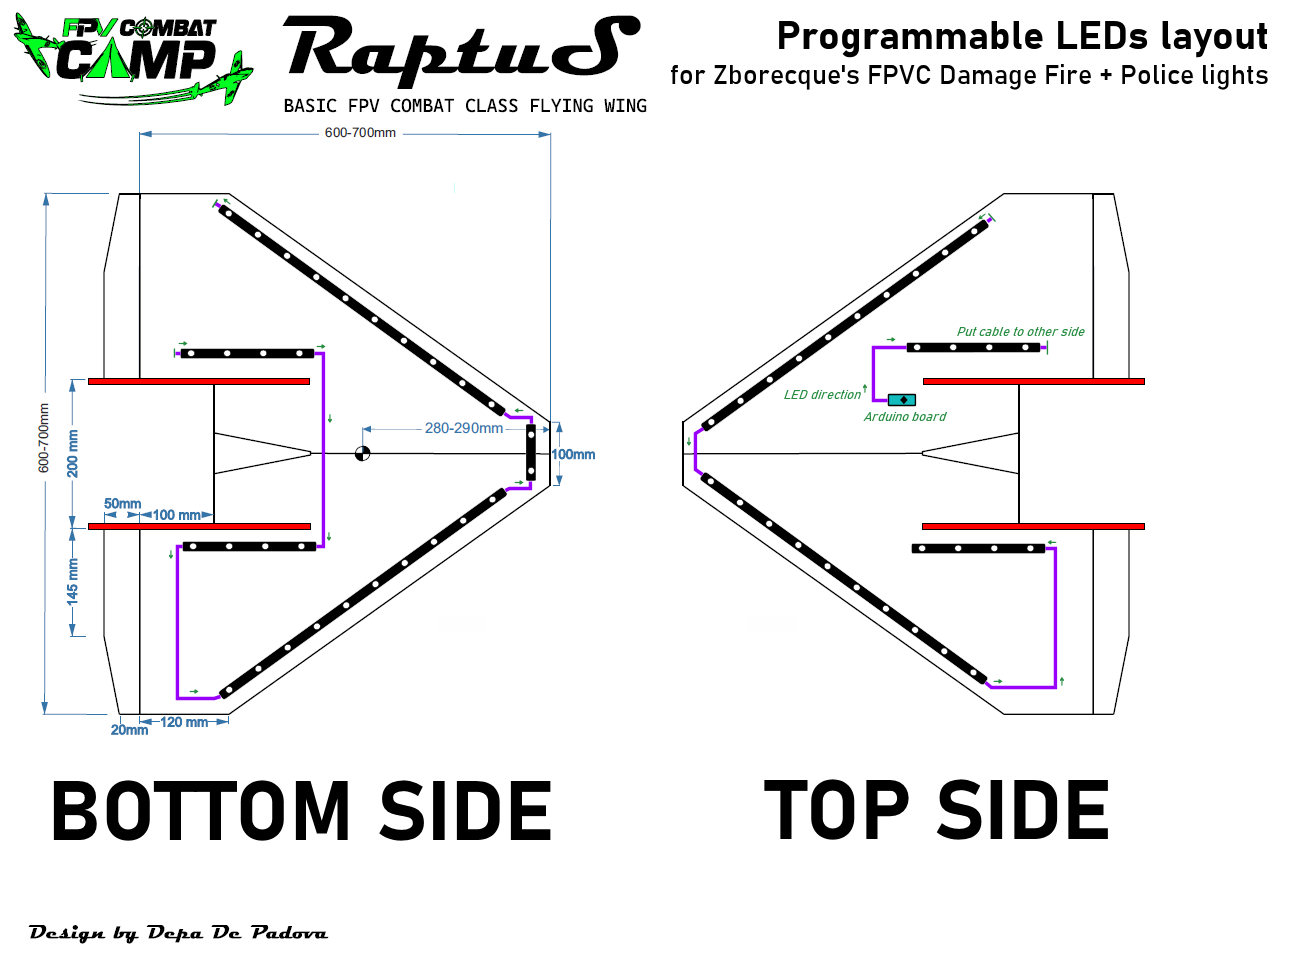
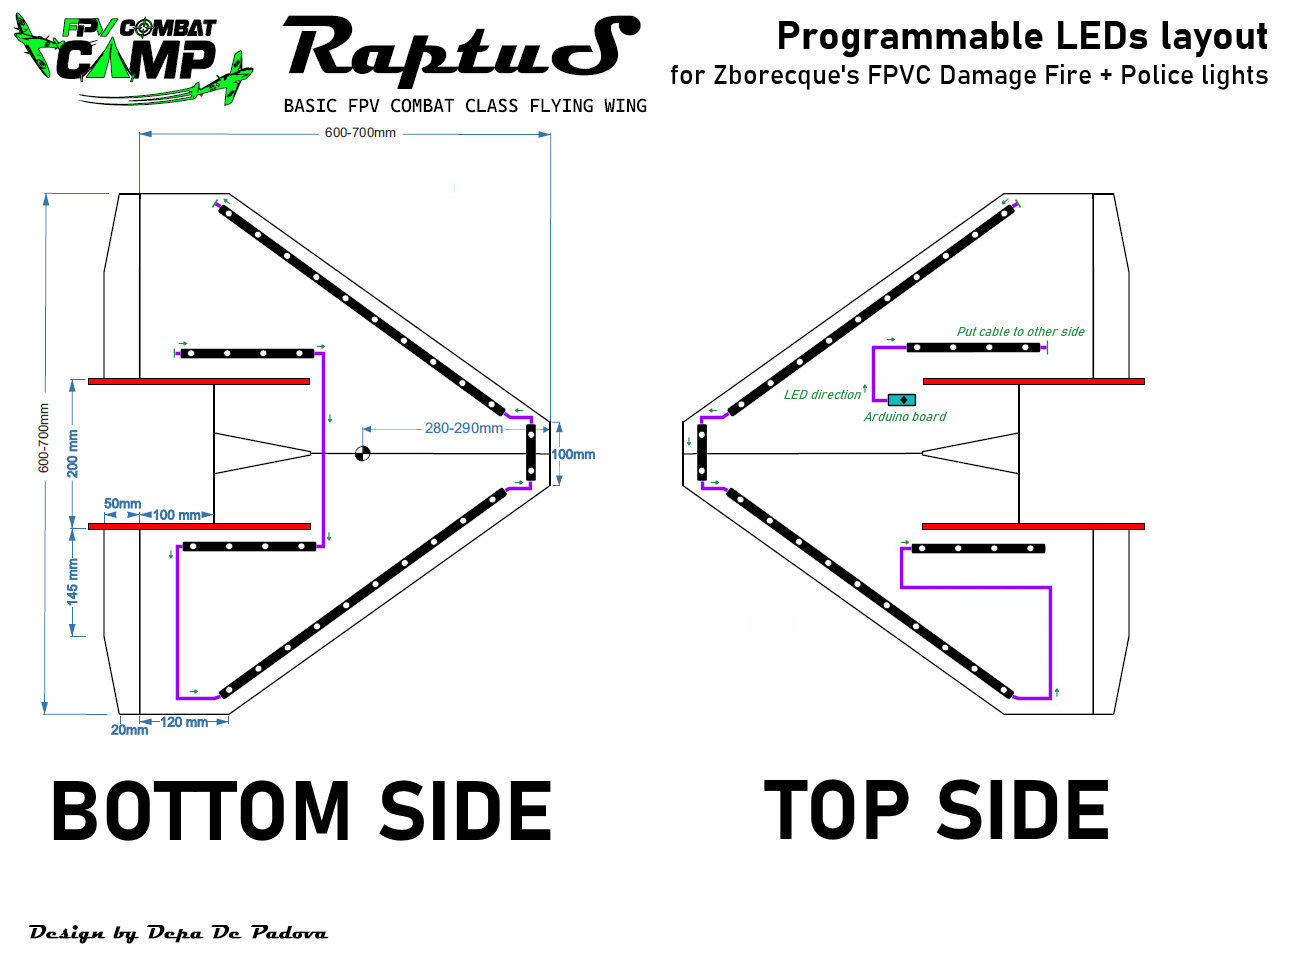
layout correction

diff --git a/README.md b/README.md
@@ -16,7 +16,7 @@ A concept of having a [FPV Combat](https://fpv-combat.com) aircraft of [Raptus](
 
 #### Layout
 
-Below layout demonstrates the placement of 58 LEDs across the Raptus aircraft. The LED strip should have 58 LEDs in total, and they shouyld be broken into 9 sections (4 sections of 10, 4 sections of 4and one 2-LED section) connected together in the exact order as on the layout.
+Below layout demonstrates the placement of 60 LEDs across the Raptus aircraft. The LED strip should have 60 LEDs in total, and they should be broken into 10 sections (4 sections of 10, 4 sections of 4 and 2 sections of 2 LEDs) connected together in the exact order as on the layout.
 
 ![alt text](./FPV_Combat_damage_fire/FPV_Combat_damage_fire_layout.jpg "Title")
 